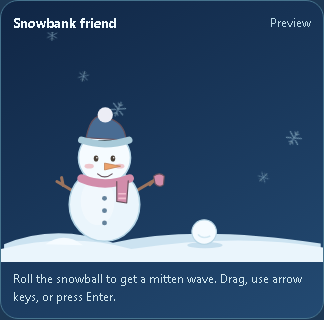
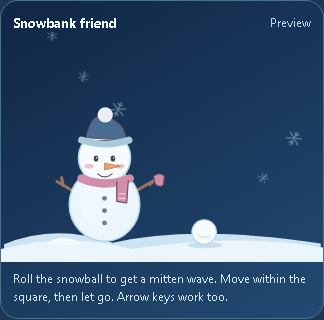
Refine theme toy physics and add Marshawn Skittles scene

Changed region(s): [[0.0309, 0.9062, 0.679, 0.9375], [0.7407, 0.8438, 0.9259, 0.9062], [0.679, 0.8438, 0.7099, 0.875]]

diff --git a/docs/mockups/reactive-themes.js b/docs/mockups/reactive-themes.js
@@ -14,6 +14,10 @@ const systemDark = matchMedia('(prefers-color-scheme: dark)');
 let settleTimer;
 let sceneConfig = [];
 let drag = null;
+let physicsFrame = 0;
+let physicsTime = 0;
+const movingToys = new Map();
+const GRAVITY = 460;
 const clamp = (v,min,max) => Math.min(max,Math.max(min,v));
 const svg = (content,attrs='') => `<svg viewBox="0 0 420 270" aria-hidden="true" ${attrs}>${content}</svg>`;
 const stroke = 'stroke="#66515c" stroke-width="1.5" stroke-linecap="round" stroke-linejoin="round"';
@@ -24,6 +28,7 @@ const yarn = (x,y,size=1,color='#c98dab') => `<g transform="translate(${x} ${y})
 const acorn = (x,y,size=1) => `<g transform="translate(${x} ${y}) scale(${size})"><path d="M-12-4Q-12 15 0 19Q12 15 12-4Z" fill="#d4a575" stroke="#876243" stroke-width="1.5"/><path d="M-15-4Q-13-17 0-16Q13-17 15-4Z" fill="#906650" stroke="#654937" stroke-width="1.5"/><path d="M1-16Q-2-24 4-24" fill="none" stroke="#654937" stroke-width="3" stroke-linecap="round"/><path d="M-9-9L-4-5M-2-12L3-8M7-10L11-6" stroke="#b08b67" stroke-width="1.5"/></g>`;
 const leaf = (x,y,scale=1,color='#d68a59') => `<g transform="translate(${x} ${y}) scale(${scale})"><path d="M0-20L5-9L16-15L12-4L23 0L11 7L12 18L2 12L0 25L-2 12L-12 18L-11 7L-23 0L-12-4L-16-15L-5-9Z" fill="${color}"/><path d="M0 24V-14M0 6L12 0M0 0L-10-6" fill="none" stroke="#91573f" stroke-width="1.5"/></g>`;
 const mouse = (x,y,size=1) => `<g transform="translate(${x} ${y}) scale(${size})"><path d="M-9 6Q-21 10-17-3" fill="none" stroke="#b786ac" stroke-width="2"/><ellipse rx="12" ry="8" fill="#d8b8d0" stroke="#896a84" stroke-width="1.2"/><ellipse cx="3" cy="-7" rx="5" ry="5" fill="#e6cbdc" stroke="#896a84" stroke-width="1.2"/><circle cx="8" cy="-1" r="1.5" fill="#66515c"/><circle cx="13" cy="2" r="2" fill="#c890a2"/></g>`;
+const skittles = (x,y) => `<g transform="translate(${x} ${y})"><ellipse cx="-9" cy="3" rx="8" ry="6" fill="#da7184" stroke="#a75368"/><ellipse cx="6" cy="7" rx="8" ry="6" fill="#e7be69" stroke="#ba9655"/><ellipse cx="1" cy="-6" rx="8" ry="6" fill="#a59aca" stroke="#7c6c9d"/><ellipse cx="13" cy="-1" rx="7" ry="6" fill="#88b497" stroke="#619376"/><path d="M-11 2Q-7 0-9 4Q-12 6-8 5M4 6Q8 4 6 8Q3 10 7 9M-1-7Q3-9 1-5Q-2-3 2-4M11-2Q15-4 13 0Q10 2 14 1" stroke="#fff7e6" stroke-width="1.1" fill="none" stroke-linecap="round"/></g>`;
 const cat = (id,x,y,mirror=false) => `<g data-buddy="${id}" transform="translate(${x} ${y}) scale(${mirror?'-.85':'.85'} .85)">
   <path d="M28 92C6 92 2 74 14 66C20 62 28 64 30 72" fill="none" stroke="#9d8194" stroke-width="13" stroke-linecap="round"/>
   <path d="M24 101C16 74 34 52 66 50L118 52C140 54 152 68 150 82C148 94 138 102 122 102L44 102C34 102 27 102 24 101Z" fill="#efe6d8" ${stroke}/>
@@ -38,7 +43,7 @@ const cat = (id,x,y,mirror=false) => `<g data-buddy="${id}" transform="translate
 const cushion = (x,y,w) => `<rect x="${x}" y="${y}" width="${w}" height="15" rx="7" fill="#b591aa" ${stroke}/><path d="M${x+8} ${y+7}H${x+w-8}" stroke="#e3cbd6" stroke-width="1.3"/>`;
 const ground = (color='#b48b78') => `<ellipse class="scene-ground" cx="210" cy="250" rx="202" ry="15" fill="${color}" opacity=".4"/>`;
 const tree = (x) => `<rect x="${x+69}" y="211" width="25" height="39" rx="4" fill="#c8a585" ${stroke}/><path d="M${x+72} 218H${x+91}M${x+72} 224H${x+91}M${x+72} 230H${x+91}M${x+72} 236H${x+91}" stroke="#997662" stroke-width="1.5"/><rect x="${x+43}" y="245" width="76" height="12" rx="6" fill="#b48b78" ${stroke}/>${cushion(x,200,175)}`;
-const toy = (id,x,y,kind,anchor=null) => `${anchor?`<path id="cord-${id}" d="M${anchor.x} ${anchor.y}L${x} ${y}" fill="none" stroke="#aa839c" stroke-width="2"/>`:''}<g id="toy-${id}" transform="translate(${x} ${y})">${kind==='yarn'?yarn(0,0,.68):kind==='mouse'?mouse(0,0,.9):kind==='snowball'?'<circle r="16" fill="#f5fbff" stroke="#b9d6e5" stroke-width="1.5"/><path d="M-8 3Q-3 10 8 5" stroke="#d3e8f2" stroke-width="2" fill="none"/>':kind==='acorn'?acorn(0,0,.75):ball(0,0,.85)}</g>`;
+const toy = (id,x,y,kind,anchor=null) => `${anchor?`<path id="cord-${id}" d="M${anchor.x} ${anchor.y}L${x} ${y}" fill="none" stroke="#aa839c" stroke-width="2"/>`:''}<g id="toy-${id}" transform="translate(${x} ${y})">${kind==='yarn'?yarn(0,0,.68):kind==='mouse'?mouse(0,0,.9):kind==='snowball'?'<circle r="16" fill="#f5fbff" stroke="#b9d6e5" stroke-width="1.5"/><path d="M-8 3Q-3 10 8 5" stroke="#d3e8f2" stroke-width="2" fill="none"/>':kind==='acorn'?acorn(0,0,.75):kind==='skittles'?skittles(0,0):ball(0,0,.85)}</g>`;
 function cozyScene() {
   const shared = option==='b';
   sceneConfig = shared ? [{id:'left',x:204,y:166,kind:'mouse',anchor:{x:210,y:106},buddy:'left'},{id:'right',x:238,y:169,kind:'yarn',anchor:{x:232,y:107},buddy:'right'}] : [{id:'left',x:171,y:181,kind:'yarn',anchor:{x:165,y:143},buddy:'left'},{id:'right',x:249,y:181,kind:'mouse',anchor:{x:255,y:143},buddy:'right'}];
@@ -57,14 +62,27 @@ function autumnScene() {
   return ground('#c59366')+(option==='a'?`${stump(154,224,92)}${squirrel()}`:`${stump(320,193,70)}${fox()}<ellipse cx="328" cy="178" rx="28" ry="25" fill="#dfa66b" ${stroke}/><path d="M322 156Q328 166 325 198M333 156Q338 166 335 198" fill="none" stroke="#bb8357" stroke-width="2"/><path d="M328 155V143" stroke="#80694e" stroke-width="5" stroke-linecap="round"/>`)+leaf(59,250,.5)+leaf(337,250,.65,'#d3a75f')+leaf(359,256,.4,'#b16f59')+toy('autumn',285,235,'acorn');
 }
 const helmet = () => `<path d="M-38-16Q-39-60 0-61Q40-60 38-16L28-15Q27-43 0-42Q-27-43-28-15Z" fill="#739a82" ${stroke}/><path d="M-7-59L-7-43M7-59L7-43" stroke="#e5ead6" stroke-width="5"/><path d="M-37-18H-26M26-18H37" stroke="#d1decb" stroke-width="7" stroke-linecap="round"/>`;
-const footballBuddy = () => `<g data-buddy="football" transform="translate(138 167)"><path class="companion-arm" d="M35 16Q61 1 63 22Q62 35 49 35" fill="#c49676" ${stroke}/><path d="M-35 16Q-61 1-63 22Q-62 35-49 35" fill="#c49676" ${stroke}/><path d="M-24 62L-30 77M24 62L30 77" stroke="#ad8265" stroke-width="9" stroke-linecap="round"/><ellipse cx="-30" cy="77" rx="17" ry="8" fill="#f7e5c5" ${stroke}/><ellipse cx="30" cy="77" rx="17" ry="8" fill="#f7e5c5" ${stroke}/><path d="M0-51C-67-25-66 48 0 68C66 48 67-25 0-51Z" fill="#bd8662" ${stroke}/><path d="M-32-29Q-53 6-30 50M32-29Q53 6 30 50" stroke="#f6e4c7" stroke-width="5" fill="none"/><g class="companion-head">${helmet()}${eyes(0,-7)}${cheek(0,5)}<path d="M-7 13Q0 21 7 13" fill="none" ${stroke}/></g><path d="M0 28V49M-8 31H8M-8 38H8M-8 45H8" stroke="#f7e9d5" stroke-width="2.5" stroke-linecap="round"/></g>`;
-const puppy = () => `<g data-buddy="football" transform="translate(176 174)"><path d="M31 43Q85 61 88 30" fill="none" stroke="#c39a70" stroke-width="13" stroke-linecap="round"/><ellipse cy="28" rx="39" ry="41" fill="#d7b082" ${stroke}/><ellipse cy="35" rx="24" ry="28" fill="#f6dec0"/><g class="companion-head"><ellipse cy="-13" rx="40" ry="35" fill="#d7b082" ${stroke}/><path d="M-29-38Q-55-36-49 1Q-34 15-24-9M29-38Q55-36 49 1Q34 15 24-9" fill="#b98b64" ${stroke}/>${helmet()}${eyes(0,-12)}<ellipse cy="6" rx="20" ry="15" fill="#f6dec0"/>${cheek(0,5)}<path d="M-7 1Q0-3 7 1Q7 8 0 9Q-7 8-7 1" fill="#66515c"/><path d="M0 9V14M-8 14Q0 20 8 14" fill="none" ${stroke}/><path d="M0 18Q2 32 10 27L10 18" fill="#dda1a6"/></g><path class="companion-paw" d="M26 29Q47 19 51 31Q44 43 25 43" fill="#d7b082" ${stroke}/><ellipse cx="-24" cy="65" rx="16" ry="8" fill="#f6dec0" ${stroke}/><ellipse cx="24" cy="65" rx="16" ry="8" fill="#f6dec0" ${stroke}/></g>`;
+const marshawn = x => `<g data-buddy="football" transform="translate(${x} 164)">
+  <path d="M-32 8Q-53 9-52 35L-39 38Q-40 22-28 23" fill="#9b684e" ${stroke}/><g class="companion-arm snack-hand"><path d="M30 9Q44 10 46 26L58 22Q68 16 71 24Q70 34 59 35L38 40Q29 30 25 22" fill="#9b684e" ${stroke}/><path d="M60 22L65 16" stroke="#9b684e" stroke-width="6" stroke-linecap="round"/></g>
+  <path d="M-28 49L-25 75M28 49L25 75" stroke="#263c47" stroke-width="18" stroke-linecap="round"/><path d="M-27 60L-26 68M27 60L26 68" stroke="#b9cba2" stroke-width="4"/>
+  <path d="M-34 73Q-44 72-45 83H-13V75M34 73Q44 72 45 83H13V75" fill="#e5e5d3" ${stroke}/>
+  <path d="M-33 2L-42 16L-27 24L-28 55Q0 66 28 55L27 24L42 16L33 2Q0-10-33 2" fill="#365862" ${stroke}/><path d="M-38 13L-29 17M29 17L38 13" stroke="#abc986" stroke-width="5"/><path d="M-25 49Q0 55 25 49" stroke="#abc986" stroke-width="4" fill="none"/><path d="M-9 5L0 13L9 5" fill="none" stroke="#b5c5c5" stroke-width="3"/>
+  <text x="0" y="40" fill="#e9eddf" stroke="#abc986" stroke-width=".6" text-anchor="middle" font-family="system-ui,sans-serif" font-weight="800" font-size="23">24</text>
+  <g class="companion-head"><path d="M-35-9Q-50-58-15-65Q25-78 40-44L38-1" fill="#363039" ${stroke}/>
+  <path d="M-28-29Q-48-21-39 8M-24-22Q-43-10-34 20M-18-19Q-35 0-27 24M29-33Q45-23 38 10M25-25Q41-9 33 23" stroke="#363039" stroke-width="8" fill="none" stroke-linecap="round"/>
+  <ellipse cy="-24" rx="33" ry="33" fill="#a97151" ${stroke}/><path d="M-31-33Q-34-55-13-57Q18-66 31-39Q17-47 3-43Q-15-50-31-33" fill="#363039"/>
+  <path d="M-18-29L-7-31M7-31L18-29" stroke="#503930" stroke-width="2.7" stroke-linecap="round"/>${eyes(0,-22)}<path d="M-3-17Q-8-8 4-10" fill="none" stroke="#85573f" stroke-width="1.5" stroke-linecap="round"/>
+  <path d="M-25-4Q-17 17 0 14Q20 17 27-4Q14 0 9-5Q0-9-9-5Q-17 0-25-4" fill="#503930"/>
+  <path class="snack-smile" d="M-9-1Q0 6 9-1" fill="none" stroke="#f7e7d5" stroke-width="2" stroke-linecap="round"/>
+  <g class="snack-grin"><path d="M-14-3Q0 18 14-3Q0 2-14-3" fill="#f9ead7" stroke="#734b38" stroke-width="1"/><path d="M-9 0H9" stroke="#d9baa1" stroke-width="1"/><path d="M2 0H5V5H2Z" fill="#d3ad61"/></g></g>
+</g>`;
 function footballScene() {
-  sceneConfig=[{id:'football',x:290,y:234,kind:'football',buddy:'football'}];
-  return `<path d="M4 247Q210 222 417 247V270H4Z" fill="#82997b" opacity=".75"/><path d="M57 255H363M82 249V263M336 249V263" stroke="#dbe1c6" stroke-width="2" opacity=".8"/>${option==='a'?footballBuddy():puppy()}<path d="M338 198V244M377 198V244" stroke="#a78469" stroke-width="6"/><rect x="326" y="193" width="64" height="12" rx="6" fill="#c7a784" ${stroke}/>${ball(359,180,.65)}${toy('football',290,234,'football')}`;
+  const x=option==='a'?138:176;
+  sceneConfig=[{id:'football',x:x+103,y:235,kind:'skittles',buddy:'football',hand:{x:x+60,y:190}}];
+  return `<path d="M4 247Q210 222 417 247V270H4Z" fill="#82997b" opacity=".75"/><path d="M57 255H363M82 249V263M336 249V263" stroke="#dbe1c6" stroke-width="2" opacity=".8"/>${marshawn(x)}<path d="M338 198V244M377 198V244" stroke="#a78469" stroke-width="6"/><rect x="326" y="193" width="64" height="12" rx="6" fill="#c7a784" ${stroke}/>${ball(359,180,.65)}${toy('football',x+103,235,'skittles')}`;
 }
-const sceneNames = option==='a' ? {cozy:'Cat-tree corners',snow:'Snowbank friend',leaves:'Acorn lookout',footballs:'Practice buddy'} : {cozy:'Cat-nap bench',snow:'Snowman family',leaves:'Little autumn den',footballs:'Sideline puppy'};
-const instructions = {cozy:'Move a hanging toy to wake its cat.',snow:'Roll the snowball to get a mitten wave.',leaves:'Move the acorn to catch a curious eye.',footballs:'Move the practice ball for a little cheer.'};
+const sceneNames = option==='a' ? {cozy:'Cat-tree corners',snow:'Snowbank friend',leaves:'Acorn lookout',footballs:'Marshawn’s snack break'} : {cozy:'Cat-nap bench',snow:'Snowman family',leaves:'Little autumn den',footballs:'Marshawn’s snack break'};
+const instructions = {cozy:'Move a hanging toy to wake its cat.',snow:'Roll the snowball to get a mitten wave.',leaves:'Move the acorn to catch a curious eye.',footballs:'Bring Marshawn some Skittles for a big grin.'};
 const descriptions = {falling:['Falling decorations','Yarn & toys, snow, leaves, or footballs.'],companions:['Companions','Cute friends and their little habitats.'],reactions:['Playful reactions','Only when you move their toy.']};
 document.getElementById('appearance-content').innerHTML = `
   <div><h2>Appearance</h2><p>Choose your colors and how much company to keep.</p></div>
@@ -84,47 +102,104 @@ function fallingField() {
 }
 function updateMode() { root.dataset.mode=state.mode==='system'?(systemDark.matches?'dark':'light'):state.mode; }
 function render() {
-  clearTimeout(settleTimer); drag=null; stage.dataset.playing='false'; root.dataset.theme=state.theme; updateMode(); sceneConfig=[];
+  clearTimeout(settleTimer); cancelAnimationFrame(physicsFrame);physicsFrame=0;movingToys.clear();drag=null; stage.dataset.playing='false';stage.dataset.settling='false'; root.dataset.theme=state.theme; updateMode(); sceneConfig=[];
   const hasCompanions = state.companions && state.theme!=='none';
   const canReact = hasCompanions && state.reactions && !reduced.matches;
   const scene = hasCompanions ? ({cozy:cozyScene,snow:snowScene,leaves:autumnScene,footballs:footballScene}[state.theme])() : '';
   document.body.classList.toggle('still',reduced.matches);
-  stage.innerHTML = fallingField()+svg(scene)+(!scene&&!state.falling?'<div class="scene-empty">Just your colors.</div>':'');
+  stage.innerHTML = fallingField()+svg(scene)+'<div class="scene-drag-area" aria-hidden="true" hidden></div>'+(!scene&&!state.falling?'<div class="scene-empty">Just your colors.</div>':'');
   document.getElementById('scene-title').textContent=sceneNames[state.theme] || 'Classic';
-  document.getElementById('scene-instruction').textContent=state.theme==='none'?'The original ScoreSense palette.':canReact?`${instructions[state.theme]} Drag, use arrow keys, or press Enter.`:hasCompanions?'A quiet little scene. No reactions.':state.falling?'Only subtle falling decorations.':'The same palette across the app.';
+  document.getElementById('scene-instruction').textContent=state.theme==='none'?'The original ScoreSense palette.':canReact?`${instructions[state.theme]} Move within the square, then let go. Arrow keys work too.`:hasCompanions?'A quiet little scene. No reactions.':state.falling?'Only subtle falling decorations.':'The same palette across the app.';
   document.getElementById('reactions').disabled = !hasCompanions || reduced.matches;
   ['falling','companions'].forEach(id=>document.getElementById(id).disabled=state.theme==='none');
   document.getElementById('layer-status').textContent = reduced.matches?'Reduced motion is on. Your scene stays still.':state.theme==='none'?'Classic colors.':`${state.falling?'Falling decorations':'No falling decorations'} · ${hasCompanions?'Companions':'No companions'}${hasCompanions?canReact?' · Reactions on':' · Reactions off':''}`;
   if(canReact) sceneConfig.forEach(c=>{
+    c.bounds={left:c.x-45,right:c.x+45,top:c.anchor?c.y-45:c.y-90,bottom:c.anchor?c.y+45:c.y};
     const button=document.createElement('button'); button.className='scene-interaction'; button.dataset.toy=c.id; button.type='button';
-    button.setAttribute('aria-label',`${c.kind==='yarn'||c.kind==='mouse'?'Hanging cat toy':c.kind==='acorn'?'Acorn':c.kind==='snowball'?'Snowball':'Practice football'} · drag, arrow keys, or Enter`);
+    button.setAttribute('aria-label',`${c.kind==='yarn'||c.kind==='mouse'?'Hanging cat toy':c.kind==='acorn'?'Acorn':c.kind==='snowball'?'Snowball':c.kind==='skittles'?'Skittles':'Practice football'} · drag, arrow keys, or Enter`);
     stage.append(button); positionButton(c);
-    button.addEventListener('pointerdown',e=>{ e.preventDefault(); button.setPointerCapture(e.pointerId); drag={c,pointer:e.pointerId}; });
+    button.addEventListener('focus',()=>showArea(c));
+    button.addEventListener('blur',()=>{if(!drag&&!movingToys.size)stage.querySelector('.scene-drag-area').hidden=true;});
+    button.addEventListener('pointerdown',e=>{ e.preventDefault();movingToys.delete(c.id);c.releaseVX=0;c.releaseVY=0;c.sample=null;button.focus({preventScroll:true}); button.setPointerCapture(e.pointerId); drag={c,pointer:e.pointerId};showArea(c); });
     button.addEventListener('pointermove',e=>{ if(!drag||drag.c!==c) return; const bounds=stage.querySelector('svg:not(.particle-field svg)').getBoundingClientRect(); moveToy(c,(e.clientX-bounds.left)/bounds.width*420,(e.clientY-bounds.top)/bounds.height*270); });
-    const release=()=>{if(drag?.c===c){drag=null;restSoon();}};
+    const release=()=>{if(drag?.c===c){drag=null;releaseToy(c);}};
     button.addEventListener('pointerup',release);button.addEventListener('pointercancel',release);button.addEventListener('lostpointercapture',release);
-    button.addEventListener('keydown',e=>{ if(!['ArrowLeft','ArrowRight','ArrowUp','ArrowDown','Enter',' '].includes(e.key))return; e.preventDefault(); const x=c.currentX??c.x,y=c.currentY??c.y;moveToy(c,x+(e.key==='ArrowLeft'?-10:e.key==='ArrowRight'?10:e.key==='Enter'||e.key===' '?-8:0),y+(e.key==='ArrowUp'?-8:e.key==='ArrowDown'?8:0));restSoon(); });
+    button.addEventListener('keydown',e=>{ if(!['ArrowLeft','ArrowRight','ArrowUp','ArrowDown','Enter',' '].includes(e.key))return; e.preventDefault();const x=c.currentX??c.x,y=c.currentY??c.y;showArea(c);moveToy(c,x+(e.key==='ArrowLeft'?-10:e.key==='ArrowRight'?10:e.key==='Enter'||e.key===' '?-8:0),y+(e.key==='ArrowUp'||e.key==='Enter'||e.key===' '?-8:e.key==='ArrowDown'?8:0)); });
+    button.addEventListener('keyup',e=>{if(['ArrowLeft','ArrowRight','ArrowUp','ArrowDown','Enter',' '].includes(e.key)){e.preventDefault();c.releaseVX=0;c.releaseVY=0;releaseToy(c);}});
   });
 }
 function positionButton(c) {
   const box = stage.querySelector('svg:not(.particle-field svg)').getBoundingClientRect(), container=stage.getBoundingClientRect();
-  const button=stage.querySelector(`[data-toy="${c.id}"]`);if(!button)return;
+  const button=stage.querySelector(`.scene-interaction[data-toy="${c.id}"]`);if(!button)return;
   button.style.left=`${box.left-container.left+(c.currentX??c.x)/420*box.width}px`;
   button.style.top=`${box.top-container.top+(c.currentY??c.y)/270*box.height}px`;
+  const area=stage.querySelector('.scene-drag-area');if(!area?.hidden&&area?.dataset.toy===c.id)showArea(c);
+}
+function showArea(c) {
+  const area=stage.querySelector('.scene-drag-area');if(!area||!c.bounds)return;
+  const box=stage.querySelector('svg:not(.particle-field svg)').getBoundingClientRect(),container=stage.getBoundingClientRect();
+  area.hidden=false;area.dataset.toy=c.id;
+  area.style.left=`${box.left-container.left+c.bounds.left/420*box.width}px`;
+  area.style.top=`${box.top-container.top+c.bounds.top/270*box.height}px`;
+  area.style.width=`${(c.bounds.right-c.bounds.left)/420*box.width}px`;
+  area.style.height=`${(c.bounds.bottom-c.bounds.top)/270*box.height}px`;
 }
 function moveToy(c,x,y) {
   clearTimeout(settleTimer);
-  if(c.anchor) { const dx=x-c.anchor.x,dy=y-c.anchor.y,angle=clamp(Math.atan2(dx,Math.max(10,dy)),-.65,.65),length=Math.hypot(c.x-c.anchor.x,c.y-c.anchor.y); x=c.anchor.x+Math.sin(angle)*length;y=c.anchor.y+Math.cos(angle)*length; }
-  else {x=clamp(x,c.x-45,c.x+45);y=clamp(y,c.y-12,c.y+7);}
+  movingToys.delete(c.id);
+  x=clamp(x,c.bounds.left,c.bounds.right);y=clamp(y,c.bounds.top,c.bounds.bottom);
+  if(drag?.c===c){const now=performance.now();if(c.sample){const dt=Math.max((now-c.sample.time)/1000,.008);c.releaseVX=clamp((x-c.sample.x)/dt,-350,350);c.releaseVY=clamp((y-c.sample.y)/dt,-350,350);}c.sample={x,y,time:now};}
+  paintToy(c,x,y);
+}
+function paintToy(c,x,y) {
   c.currentX=x;c.currentY=y;
-  stage.querySelector(`#toy-${c.id}`).setAttribute('transform',`translate(${x} ${y})`);
+  stage.querySelector(`#toy-${c.id}`).setAttribute('transform',`translate(${x} ${y}) rotate(${c.rotation||0})`);
   const cord=stage.querySelector(`#cord-${c.id}`);if(cord)cord.setAttribute('d',`M${c.anchor.x} ${c.anchor.y}L${x} ${y}`);
   positionButton(c);stage.dataset.playing='true';
   const buddy=stage.querySelector(`[data-buddy="${c.buddy}"]`);
-  stage.querySelectorAll('[data-buddy]').forEach(b=>b.classList.toggle('playing',b===buddy));
-  if(buddy){buddy.querySelectorAll('.companion-pupil').forEach(p=>p.style.transform=`translate(${clamp((x-c.x)/12,-2.5,2.5)}px,${clamp((y-c.y)/10,-1.5,1.5)}px)`);buddy.querySelectorAll('.awake-eyes').forEach(e=>e.style.display='');buddy.querySelectorAll('.sleep-eyes').forEach(e=>e.style.display='none');}
+  if(buddy)buddy.classList.add('playing');
+  if(buddy){
+    // The right cat's horizontal scale is negative; convert gaze to its local direction.
+    const horizontalDirection = buddy.getCTM().a < 0 ? -1 : 1;
+    buddy.querySelectorAll('.companion-pupil').forEach(p=>p.style.transform=`translate(${horizontalDirection*clamp((x-c.x)/12,-2.5,2.5)}px,${clamp((y-c.y)/10,-1.5,1.5)}px)`);
+    buddy.querySelectorAll('.awake-eyes').forEach(e=>e.style.display='');buddy.querySelectorAll('.sleep-eyes').forEach(e=>e.style.display='none');
+    if(c.hand)buddy.classList.toggle('snack-happy',Math.hypot(x-c.hand.x,y-c.hand.y)<43);
+  }
 }
-function restSoon(){settleTimer=setTimeout(()=>{stage.dataset.playing='false';stage.querySelectorAll('.playing').forEach(e=>e.classList.remove('playing'));stage.querySelectorAll('.awake-eyes').forEach(e=>e.style.display='none');stage.querySelectorAll('.sleep-eyes').forEach(e=>e.style.display='');stage.querySelectorAll('.companion-pupil').forEach(e=>e.style.transform='');sceneConfig.forEach(c=>{delete c.currentX;delete c.currentY;stage.querySelector(`#toy-${c.id}`)?.setAttribute('transform',`translate(${c.x} ${c.y})`);stage.querySelector(`#cord-${c.id}`)?.setAttribute('d',`M${c.anchor?.x} ${c.anchor?.y}L${c.x} ${c.y}`);positionButton(c);});},1100);}
+function releaseToy(c) {
+  if(reduced.matches||!state.reactions||!state.companions)return;
+  clearTimeout(settleTimer);
+  const fresh=!c.sample||performance.now()-c.sample.time<100;
+  movingToys.set(c.id,{c,vx:fresh?(c.releaseVX||0):0,vy:fresh?(c.releaseVY||0):0,age:0});
+  stage.dataset.settling='true';
+  if(!physicsFrame){physicsTime=performance.now();physicsFrame=requestAnimationFrame(stepPhysics);}
+}
+function stepPhysics(now) {
+  const dt=clamp((now-physicsTime)/1000,.001,.025);physicsTime=now;
+  for(const [id,p] of movingToys){
+    const c=p.c;let x=c.currentX??c.x,y=c.currentY??c.y,ax=0,ay=GRAVITY;p.age+=dt;
+    if(c.anchor){
+      const dx=x-c.anchor.x,dy=y-c.anchor.y,length=Math.max(1,Math.hypot(dx,dy));
+      const restLength=Math.max(8,Math.hypot(c.x-c.anchor.x,c.y-c.anchor.y)-GRAVITY/70);
+      const extension=Math.max(0,length-restLength),radialSpeed=(p.vx*dx+p.vy*dy)/length;
+      const pull=Math.max(0,extension*70+radialSpeed*3.5);
+      ax-=pull*dx/length;ay-=pull*dy/length;
+    }
+    p.vx=(p.vx+ax*dt)*Math.exp(-1.8*dt);p.vy=(p.vy+ay*dt)*Math.exp(-1.8*dt);
+    x+=p.vx*dt;y+=p.vy*dt;
+    if(x<c.bounds.left||x>c.bounds.right){x=clamp(x,c.bounds.left,c.bounds.right);p.vx*=-.3;}
+    if(y<c.bounds.top){y=c.bounds.top;p.vy=Math.abs(p.vy)*.3;}
+    if(y>c.bounds.bottom){y=c.bounds.bottom;p.vy=-Math.abs(p.vy)*.32;if(Math.abs(p.vy)<18)p.vy=0;p.vx*=Math.exp(-8*dt);}
+    if(c.anchor)c.rotation=-Math.atan2(x-c.anchor.x,Math.max(1,y-c.anchor.y))*180/Math.PI;
+    else c.rotation=(c.rotation||0)+p.vx*dt*.7;
+    paintToy(c,x,y);
+    const settled=c.anchor?Math.hypot(p.vx,p.vy)<3&&Math.abs(x-c.anchor.x)<.5&&Math.abs(y-c.y)<.6:Math.abs(p.vx)<2&&p.vy===0&&Math.abs(y-c.y)<.1;
+    if(settled||p.age>8)movingToys.delete(id);
+  }
+  if(movingToys.size)physicsFrame=requestAnimationFrame(stepPhysics);
+  else{physicsFrame=0;stage.dataset.settling='false';if(!drag)restSoon();}
+}
+function restSoon(){settleTimer=setTimeout(()=>{if(drag||movingToys.size)return;stage.dataset.playing='false';stage.querySelectorAll('.playing,.snack-happy').forEach(e=>e.classList.remove('playing','snack-happy'));stage.querySelectorAll('.awake-eyes').forEach(e=>e.style.display='none');stage.querySelectorAll('.sleep-eyes').forEach(e=>e.style.display='');stage.querySelectorAll('.companion-pupil').forEach(e=>e.style.transform='');stage.querySelector('.scene-drag-area').hidden=true;},450);}
 document.addEventListener('change',e=>{const input=e.target;if(input.name==='theme'){state.theme=input.value;render();}else if(input.name==='mode'){state.mode=input.value;updateMode();}else if(Object.hasOwn(descriptions,input.id)){state[input.id]=input.checked;render();}});
 reduced.addEventListener('change',render);systemDark.addEventListener('change',updateMode);
 new ResizeObserver(()=>sceneConfig.forEach(positionButton)).observe(stage);

diff --git a/docs/mockups/reactive-themes.html b/docs/mockups/reactive-themes.html
@@ -1,4 +1,4 @@
 <!DOCTYPE html>
-<html lang="en" data-theme="cozy" data-mode="dark"><head><meta charset="UTF-8"><meta name="viewport" content="width=device-width, initial-scale=1"><title>Reactive theme companions · ScoreSense</title><link rel="stylesheet" href="mockup-shared.css?v=59aafa499be5"><link rel="stylesheet" href="mobile-foundation.css?v=e47422348af2"><link rel="stylesheet" href="reactive-themes.css?v=2378c52eeba5"></head><body>
+<html lang="en" data-theme="cozy" data-mode="dark"><head><meta charset="UTF-8"><meta name="viewport" content="width=device-width, initial-scale=1"><title>Reactive theme companions · ScoreSense</title><link rel="stylesheet" href="mockup-shared.css?v=59aafa499be5"><link rel="stylesheet" href="mobile-foundation.css?v=e47422348af2"><link rel="stylesheet" href="reactive-themes.css?v=dc18f82c54ae"></head><body>
 <div class="concept-banner"><strong>Reactive themes · Two directions</strong><nav class="concept-nav" aria-label="Design options"><a href="index.html">All mocks</a><a href="reactive-themes-a.html">A</a><a href="reactive-themes-b.html">B</a></nav></div>
-<main id="main-content" class="chooser"><h1>A little more company.</h1><p>Both keep the approved light and dark palettes. Turn falling decorations, companions, and reactions on or off separately. The cats rest on a proper perch and react only to their hanging toy.</p><div class="chooser-grid"><a href="reactive-themes-a.html"><h2>A · Play corners</h2><p>Compact cat trees, a snowman, a squirrel on a stump, and a tiny football buddy. Recommended for a lighter touch.</p><img src="reactive-themes-review/a-390.png" alt="Phone preview of cat trees and independent scene controls" loading="lazy"></a><a href="reactive-themes-b.html"><h2>B · Little habitats</h2><p>A shared cat bench, a snowman family, a fox, and a helmeted puppy. More of a cozy miniature scene.</p><img src="reactive-themes-review/b-390.png" alt="Phone preview of a shared cat bench and independent scene controls" loading="lazy"></a></div><p>Open either preview, change the theme, and move its toy with touch, a mouse, or the arrow keys.</p></main></body></html>
+<main id="main-content" class="chooser"><h1>A little more company.</h1><p>Both keep the approved light and dark palettes. Turn falling decorations, companions, and reactions on or off separately. The cats rest on a proper perch and react only to their hanging toy.</p><div class="chooser-grid"><a href="reactive-themes-a.html"><h2>A · Play corners</h2><p>Compact cat trees, a snowman, a squirrel on a stump, and Marshawn’s Skittles break. Recommended for a lighter touch.</p><img src="reactive-themes-review/a-390.png" alt="Phone preview of cat trees and independent scene controls" loading="lazy"></a><a href="reactive-themes-b.html"><h2>B · Little habitats</h2><p>A shared cat bench, a snowman family, a fox, and Marshawn’s Skittles break. More of a cozy miniature scene.</p><img src="reactive-themes-review/b-390.png" alt="Phone preview of a shared cat bench and independent scene controls" loading="lazy"></a></div><p>Open either preview, change the theme, and move its toy within the square. Release it to let it swing or bounce naturally.</p></main></body></html>

diff --git a/docs/mockups/reactive-themes-a.html b/docs/mockups/reactive-themes-a.html
@@ -1,7 +1,7 @@
 <!DOCTYPE html>
 <html lang="en" data-theme="cozy" data-mode="dark">
-<head><meta charset="UTF-8"><meta name="viewport" content="width=device-width, initial-scale=1"><title>Reactive themes · A · ScoreSense</title><link rel="stylesheet" href="mockup-shared.css?v=59aafa499be5"><link rel="stylesheet" href="mobile-foundation.css?v=e47422348af2"><link rel="stylesheet" href="reactive-themes.css?v=2378c52eeba5"></head>
+<head><meta charset="UTF-8"><meta name="viewport" content="width=device-width, initial-scale=1"><title>Reactive themes · A · ScoreSense</title><link rel="stylesheet" href="mockup-shared.css?v=59aafa499be5"><link rel="stylesheet" href="mobile-foundation.css?v=e47422348af2"><link rel="stylesheet" href="reactive-themes.css?v=dc18f82c54ae"></head>
 <body data-option="a"><a class="skip-link" href="#main-content">Skip to content</a>
 <div class="concept-banner"><div><strong>A · Play corners</strong><span> · Interactive design preview</span></div><nav class="concept-nav" aria-label="Design options"><a href="index.html">All mocks</a><a href="reactive-themes.html">Chooser</a><a class="is-on" aria-current="page" href="reactive-themes-a.html">A</a><a href="reactive-themes-b.html">B</a></nav></div>
-<main id="main-content" class="account-preview"><header class="account-header"><a href="#" data-preview="Back to Projections">← Back</a><h1>Account settings</h1></header><section id="appearance-content" class="appearance-panel" aria-label="Appearance"></section><p class="preview-footnote">A · Cat-tree corners, a snowman, a squirrel, and a tiny football buddy. Companions sit at the edge of the page, below your content.</p></main>
-<div class="preview-toast" id="preview-toast" role="status" hidden></div><script src="mobile-mock.js?v=ede2a46540ef"></script><script src="reactive-themes.js?v=bcc8db65fc50"></script></body></html>
+<main id="main-content" class="account-preview"><header class="account-header"><a href="#" data-preview="Back to Projections">← Back</a><h1>Account settings</h1></header><section id="appearance-content" class="appearance-panel" aria-label="Appearance"></section><p class="preview-footnote">A · Cat-tree corners, a snowman, a squirrel, and Marshawn’s Skittles break. Companions sit at the edge of the page, below your content.</p></main>
+<div class="preview-toast" id="preview-toast" role="status" hidden></div><script src="mobile-mock.js?v=ede2a46540ef"></script><script src="reactive-themes.js?v=9d7c3312fe7e"></script></body></html>

diff --git a/docs/mockups/reactive-themes-b.html b/docs/mockups/reactive-themes-b.html
@@ -1,7 +1,7 @@
 <!DOCTYPE html>
 <html lang="en" data-theme="cozy" data-mode="dark">
-<head><meta charset="UTF-8"><meta name="viewport" content="width=device-width, initial-scale=1"><title>Reactive themes · B · ScoreSense</title><link rel="stylesheet" href="mockup-shared.css?v=59aafa499be5"><link rel="stylesheet" href="mobile-foundation.css?v=e47422348af2"><link rel="stylesheet" href="reactive-themes.css?v=2378c52eeba5"></head>
+<head><meta charset="UTF-8"><meta name="viewport" content="width=device-width, initial-scale=1"><title>Reactive themes · B · ScoreSense</title><link rel="stylesheet" href="mockup-shared.css?v=59aafa499be5"><link rel="stylesheet" href="mobile-foundation.css?v=e47422348af2"><link rel="stylesheet" href="reactive-themes.css?v=dc18f82c54ae"></head>
 <body data-option="b"><a class="skip-link" href="#main-content">Skip to content</a>
 <div class="concept-banner"><div><strong>B · Little habitats</strong><span> · Interactive design preview</span></div><nav class="concept-nav" aria-label="Design options"><a href="index.html">All mocks</a><a href="reactive-themes.html">Chooser</a><a href="reactive-themes-a.html">A</a><a class="is-on" aria-current="page" href="reactive-themes-b.html">B</a></nav></div>
-<main id="main-content" class="account-preview"><header class="account-header"><a href="#" data-preview="Back to Projections">← Back</a><h1>Account settings</h1></header><section id="appearance-content" class="appearance-panel" aria-label="Appearance"></section><p class="preview-footnote">B · A shared cat bench, a snowman family, a fox, and a helmeted puppy. A small habitat rests below your content.</p></main>
-<div class="preview-toast" id="preview-toast" role="status" hidden></div><script src="mobile-mock.js?v=ede2a46540ef"></script><script src="reactive-themes.js?v=bcc8db65fc50"></script></body></html>
+<main id="main-content" class="account-preview"><header class="account-header"><a href="#" data-preview="Back to Projections">← Back</a><h1>Account settings</h1></header><section id="appearance-content" class="appearance-panel" aria-label="Appearance"></section><p class="preview-footnote">B · A shared cat bench, a snowman family, a fox, and Marshawn’s Skittles break. A small habitat rests below your content.</p></main>
+<div class="preview-toast" id="preview-toast" role="status" hidden></div><script src="mobile-mock.js?v=ede2a46540ef"></script><script src="reactive-themes.js?v=9d7c3312fe7e"></script></body></html>

diff --git a/docs/mockups/reactive-themes.css b/docs/mockups/reactive-themes.css
@@ -52,6 +52,7 @@ legend { padding:0; margin-bottom:var(--space-2); font-size:var(--text-sm); font
 .scene-stage { position:relative; isolation:isolate; height:280px; }
 .scene-stage svg { position:absolute; bottom:0; left:50%; transform:translateX(-50%); width:min(100%,420px); height:auto; aspect-ratio:420/270; overflow:visible; }
 .scene-ground { opacity:.8; }
+.scene-drag-area { position:absolute; z-index:2; pointer-events:none; border:1px dashed color-mix(in srgb,var(--accent) 65%,transparent); background:color-mix(in srgb,var(--accent) 5%,transparent); border-radius:6px; }
 .scene-interaction { position:absolute; z-index:4; width:var(--control-h-lg); height:var(--control-h-lg); padding:0; margin:-22px 0 0 -22px; border:1px dashed transparent; border-radius:50%; background:transparent; touch-action:none; cursor:grab; }
 .scene-interaction:hover,.scene-interaction:focus-visible { background:color-mix(in srgb,var(--bg-elevated) 28%,transparent); border-color:var(--accent); }
 .scene-interaction:active { cursor:grabbing; transform:none; }
@@ -66,6 +67,10 @@ legend { padding:0; margin-bottom:var(--space-2); font-size:var(--text-sm); font
 .playing .companion-paw { transform:rotate(-24deg) translateY(-3px); }
 .playing .companion-arm { transform:translateY(-5px) rotate(-5deg); transform-origin:center; transform-box:fill-box; }
 .playing .companion-head { transform:rotate(-3deg); transform-box:fill-box; transform-origin:50% 85%; }
+.snack-grin { display:none; }
+.snack-happy .snack-grin { display:block; }
+.snack-happy .snack-smile { display:none; }
+.snack-happy .snack-hand { transform:translate(4px,-8px); }
 .appearance-details { padding:var(--space-3); background:var(--bg-subtle); border-radius:var(--radius-md); font-size:var(--text-sm); }
 .appearance-details summary { cursor:pointer; display:flex; align-items:center; min-height:var(--control-h-lg); }
 .preview-footnote { font-size:var(--text-xs); color:var(--text-muted); line-height:1.5; margin:var(--space-4) 0 0; }

diff --git a/docs/mockups/reactive-themes-review/README.md b/docs/mockups/reactive-themes-review/README.md
@@ -2,13 +2,15 @@
 
 Open `http://127.0.0.1:5174/reactive-themes.html`.
 
-- **A / Play corners:** compact cushioned cat trees, snowman, stump squirrel, football buddy.
-- **B / Little habitats:** shared cat bench, snowman family, autumn fox, sideline puppy.
+- **A / Play corners:** compact cushioned cat trees, snowman, stump squirrel, Marshawn-inspired Skittles scene.
+- **B / Little habitats:** shared cat bench, snowman family, autumn fox, Marshawn-inspired Skittles scene.
 
 These native HTML/SVG prototypes use the approved light/dark theme palettes and shared mobile foundation. They do not write product preferences. Product implementation waits for the design pick per `.cursor/skills/fast-ui-mock/SKILL.md`.
 
 Falling decorations, companion habitats, and toy reactions have separate switches. Turning companions off removes the habitat and hit areas while retaining the falling field. Turning both decoration layers off preserves just the palette. Reactions respond only to dragging or keyboard manipulation of the local toy. Reduced motion stops particles and removes interaction targets.
 
-Validation: 40 combinations of option, theme, mode, and desktop/phone width; drag and keyboard toy interactions; independent switches; reduced motion; native disclosure; option navigation; 320px long account heading. Layout gates (type, selects, collisions, grids) pass for both options at 390px and 1280px. Screenshots were inspected at 390px, 1280px, and 320px.
+Each toy moves freely within a square. Releasing a hanging toy starts a damped elastic-tether swing; loose objects fall, bounce, and slow to rest with gravity and friction. Toy hit areas follow their objects throughout the motion. Both cats track the toy in screen coordinates, including the mirrored right cat. Marshawn's grin appears when the Skittles approach his hand. Turning reactions off cancels any active physics.
+
+Validation: 40 combinations of option, theme, mode, and desktop/phone width; both cats' rendered eye direction; square corners and release physics for each themed prop; Skittles proximity; independent switches; reduced motion; native disclosure; option navigation; 320px long account heading. Layout gates (type, selects, collisions, grids) pass for both options at 390px and 1280px. Screenshots were inspected at 390px, 1280px, and 320px.
 
 Refresh screenshots and checks with `node scripts/dev/reactive_themes_preview.mjs`.
